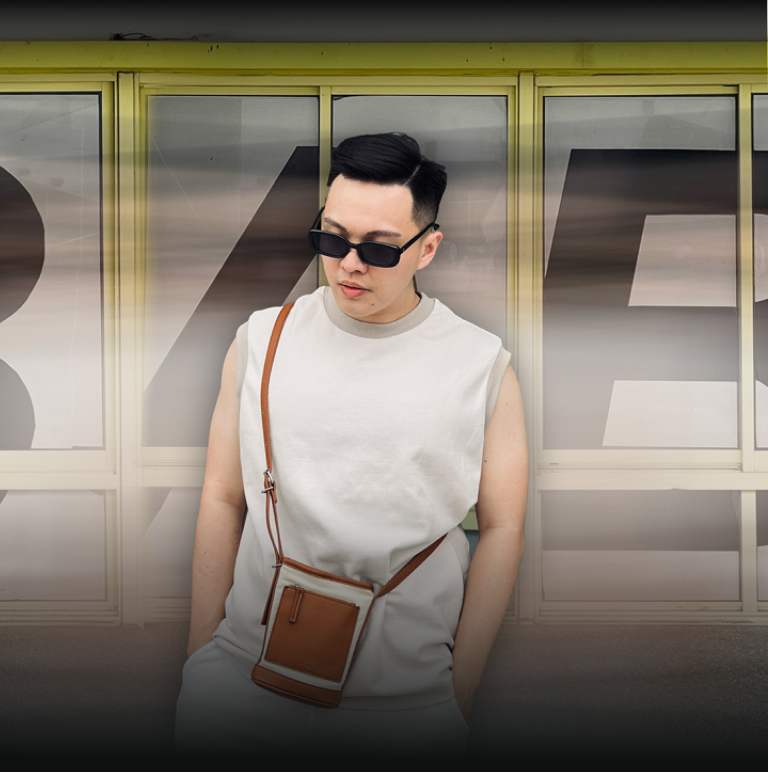
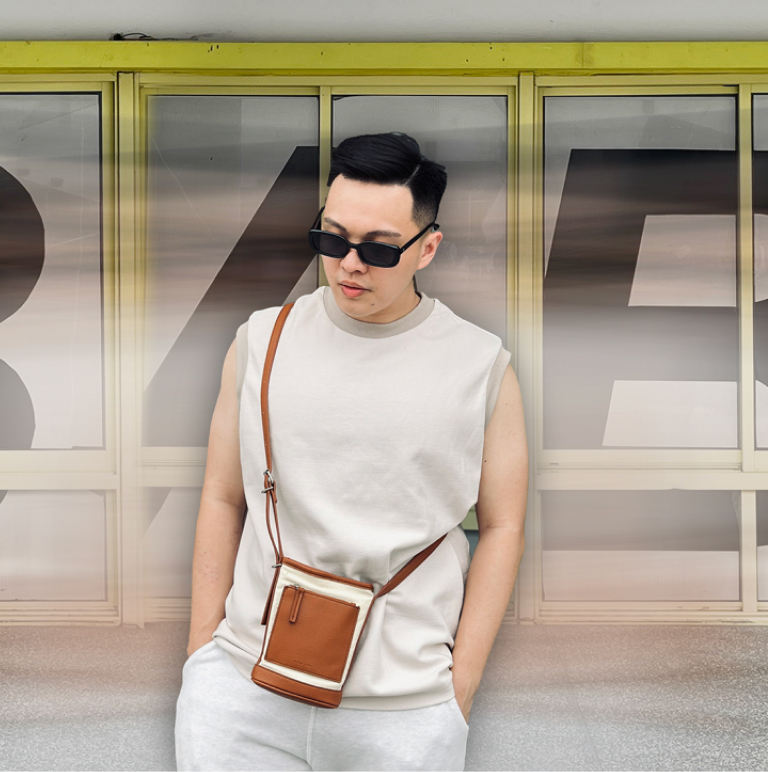
add gradient backgrounds / anchor tags

diff --git a/styles/style.css b/styles/style.css
@@ -38,7 +38,7 @@ body main section .sub_heading {
   color: #b5a997;
 }
 body main section.home {
-  background-image: url("../imgs/bg_main_mobile.png");
+  background-image: linear-gradient(to bottom, #0e0f0f, transparent 10%), linear-gradient(to top, #0e0f0f, transparent 40%), url("../imgs/bg_main_mobile.png");
   background-size: 100%;
   background-repeat: no-repeat;
   background-position: center;
@@ -56,6 +56,9 @@ body main section.home nav.navbar {
 }
 body main section.home nav.navbar ul {
   list-style: none;
+}
+body main section.home nav.navbar ul a {
+  text-decoration: none;
 }
 body main section.home img {
   position: absolute;
@@ -118,7 +121,7 @@ body main section.about div.what_i_do div span {
   white-space: nowrap;
 }
 body main section.history .pic {
-  background-image: url(../imgs/bg_history_mobile.png);
+  background-image: linear-gradient(to bottom, #0e0f0f, transparent 30%), linear-gradient(to top, #0e0f0f, transparent 60%), url(../imgs/bg_history_mobile.png);
   background-size: 100%;
   background-repeat: no-repeat;
   background-position: center;
@@ -239,7 +242,7 @@ body main section.beautiful .watchMore h4 {
   border-bottom: 1px solid #d35738;
 }
 body main section.personalPic {
-  background-image: url(../imgs/bg_personalPic_mobile.png);
+  background-image: linear-gradient(to bottom, #0e0f0f, transparent 20%), linear-gradient(to top, #0e0f0f, transparent 60%), url(../imgs/bg_personalPic_mobile.png);
   height: 60vh;
   background-repeat: no-repeat;
   background-position: center;
@@ -282,7 +285,7 @@ body main section.connect img.logo_footer {
 
 @media (min-width: 768px) {
   body main section.home {
-    background-image: url(../imgs/bg_main_ipad.png);
+    background-image: linear-gradient(to bottom, #0e0f0f, transparent 10%), linear-gradient(to top, #0e0f0f, transparent 40%), url(../imgs/bg_main_ipad.png);
   }
   body main section.home nav.navbar {
     padding: 3rem;
@@ -381,7 +384,7 @@ body main section.connect img.logo_footer {
     bottom: 10%;
   }
   body main section.personalPic {
-    background-image: url(../imgs/bg_personalPic_ipad.png);
+    background-image: linear-gradient(to bottom, #0e0f0f, transparent 30%), linear-gradient(to top, #0e0f0f, transparent 30%), url(../imgs/bg_personalPic_ipad.png);
     height: 60vh;
   }
   body main section.connect {
@@ -400,7 +403,7 @@ body main section.connect img.logo_footer {
 }
 @media (min-width: 1280px) {
   body main section.home {
-    background-image: url(../imgs/bg_main_desktop.png);
+    background-image: linear-gradient(to left, rgba(14, 15, 15, 0.3490196078), transparent 30%), linear-gradient(to right, rgba(14, 15, 15, 0.3490196078), transparent 30%), linear-gradient(to bottom, #0e0f0f, transparent 10%), linear-gradient(to top, #0e0f0f, transparent 40%), url(../imgs/bg_main_desktop.png);
   }
   body main section.home img.title {
     top: 43%;
@@ -434,7 +437,7 @@ body main section.connect img.logo_footer {
     bottom: 15%;
   }
   body main section.personalPic {
-    background-image: url(../imgs/bg_personalPic_desktop.png);
+    background-image: linear-gradient(to right, #0e0f0f, transparent 40%), linear-gradient(to left, #0e0f0f, transparent 40%), linear-gradient(to bottom, #0e0f0f, transparent 30%), linear-gradient(to top, #0e0f0f, transparent 30%), url(../imgs/bg_personalPic_desktop.png);
     height: 100vh;
   }
   body main section.connect {

diff --git a/styles/style.scss b/styles/style.scss
@@ -55,7 +55,9 @@ body {
     }
 
     section.home {
-      background-image: url("../imgs/bg_main_mobile.png");
+      background-image: linear-gradient(to bottom, #0e0f0f, transparent 10%),
+        linear-gradient(to top, #0e0f0f, transparent 40%),
+        url("../imgs/bg_main_mobile.png");
       background-size: 100%;
       background-repeat: no-repeat;
       background-position: center;
@@ -73,6 +75,10 @@ body {
 
         ul {
           list-style: none;
+          
+          a{
+            text-decoration: none;
+          }
         }
       }
 
@@ -162,7 +168,9 @@ body {
       @extend .flex-col-center;
 
       .pic {
-        background-image: url(../imgs/bg_history_mobile.png);
+        background-image: linear-gradient(to bottom, #0e0f0f, transparent 30%),
+          linear-gradient(to top, #0e0f0f, transparent 60%),
+          url(../imgs/bg_history_mobile.png);
         background-size: 100%;
         background-repeat: no-repeat;
         background-position: center;
@@ -242,7 +250,7 @@ body {
 
     section.video {
       padding-block: 2rem;
-      
+
       video {
         width: 100%;
       }
@@ -308,7 +316,8 @@ body {
     }
 
     section.personalPic {
-      background-image: url(../imgs/bg_personalPic_mobile.png);
+      background-image: linear-gradient(to bottom, #0e0f0f, transparent 20%),
+      linear-gradient(to top, #0e0f0f, transparent 60%),url(../imgs/bg_personalPic_mobile.png);
       height: 60vh;
       background-repeat: no-repeat;
       background-position: center;
@@ -363,7 +372,9 @@ body {
   body {
     main {
       section.home {
-        background-image: url(../imgs/bg_main_ipad.png);
+        background-image: linear-gradient(to bottom, #0e0f0f, transparent 10%),
+          linear-gradient(to top, #0e0f0f, transparent 40%),
+          url(../imgs/bg_main_ipad.png);
 
         nav.navbar {
           padding: 3rem;
@@ -489,7 +500,8 @@ body {
       }
 
       section.personalPic {
-        background-image: url(../imgs/bg_personalPic_ipad.png);
+        background-image: linear-gradient(to bottom, #0e0f0f, transparent 30%),
+        linear-gradient(to top, #0e0f0f, transparent 30%),url(../imgs/bg_personalPic_ipad.png);
         height: 60vh;
       }
 
@@ -515,7 +527,11 @@ body {
   body {
     main {
       section.home {
-        background-image: url(../imgs/bg_main_desktop.png);
+        background-image: linear-gradient(to left, #0e0f0f59, transparent 30%),
+          linear-gradient(to right, #0e0f0f59, transparent 30%),
+          linear-gradient(to bottom, #0e0f0f, transparent 10%),
+          linear-gradient(to top, #0e0f0f, transparent 40%),
+          url(../imgs/bg_main_desktop.png);
 
         img.title {
           top: 43%;
@@ -572,7 +588,8 @@ body {
       }
 
       section.personalPic {
-        background-image: url(../imgs/bg_personalPic_desktop.png);
+        background-image: linear-gradient(to right, #0e0f0f, transparent 40%),linear-gradient(to left, #0e0f0f, transparent 40%),linear-gradient(to bottom, #0e0f0f, transparent 30%),
+        linear-gradient(to top, #0e0f0f, transparent 30%),url(../imgs/bg_personalPic_desktop.png);
         height: 100vh;
       }
 

diff --git a/src/index.html b/src/index.html
@@ -15,10 +15,10 @@
             <nav class="navbar">
                 <span>Home</span>
                 <ul>
-                    <li>ABOUT</li>
-                    <li>SERVICE</li>
-                    <li>PROJECT</li>
-                    <li>CONNECT</li>
+                    <li><a href="#about">ABOUT</a></li>
+                    <li><a href="#service">SERVICE</a></li>
+                    <li><a href="#project">PROJECT</a></li>
+                    <li><a href="#connect">CONNECT</a></li>
                 </ul>
             </nav>
             <img class="title" alt="title" />
@@ -27,7 +27,7 @@
             <img class="nextPage" alt="nextPage" />
         </section>
 
-        <section class="about">
+        <section id="about" class="about">
             <div class="about_me">
                 <span class="sub_heading">About Me</span>
                 <div>
@@ -35,7 +35,7 @@
                     <span class="text text2">WORK LIFE BALANCE</span>
                 </div>
             </div>
-            <div class="what_i_do">
+            <div id="service" class="what_i_do">
                 <span class="sub_heading">What I Do</span>
                 <div>
                     <span class="text">VISUAL</span>
@@ -95,7 +95,7 @@
             </div>
         </section>
 
-        <section class="video">
+        <section id="project" class="video">
             <video src="../videos/showreel.mp4" poster="../imgs/img_videoPoster.png" controls="true"></video>
         </section>
 
@@ -112,7 +112,7 @@
 
         <section class="personalPic"></section>
 
-        <section class="connect">
+        <section id="connect" class="connect">
             <h2>CONNECT</h2>
             <div class="content">
                 <div class="item">
